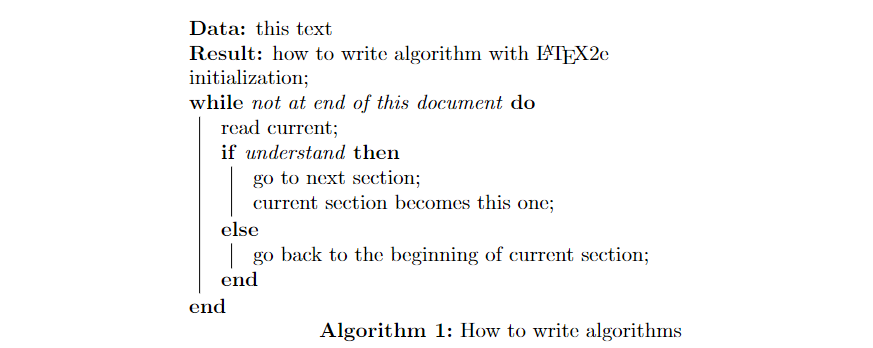
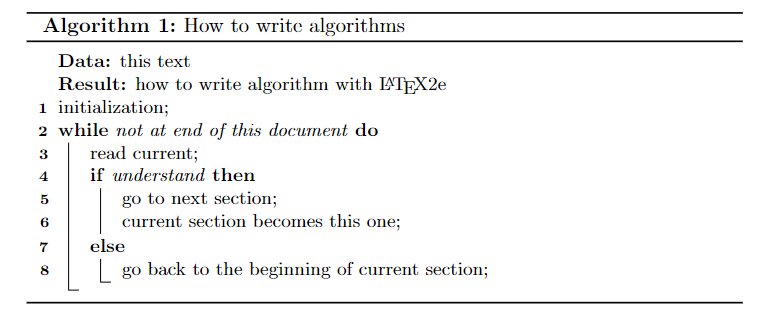
modify theme

diff --git a/source/_posts/博客搭建教程（二）.md b/source/_posts/博客搭建教程（二）.md
@@ -1,0 +1,79 @@
+---
+title: 博客搭建教程（二）
+date: 2022-10-22 20:14:34
+tags: 博客搭建
+top_img: /img/post1/top_img.jpg
+cover: /img/post1/top_img.jpg
+description: 博客写作
+---
+# 博客搭建教程（二）
+
+## 目录结构
+
+**source** 目录用户资源文件，是项目的根文件 / ，所有文章、页面、图片、音视频等资源都放在该目录下，应用该目录下的文件，文件路径从根目录 / 开始。
+
+**scaffolds** 目录存放模版文件，当新建文章时，Hexo会根据scaffold来建立文件。
+
+Hexo 有三种默认布局（模版）：`post`、`page` 和 `draft`。在创建这三种不同类型的文件时，它们将会被保存到不同的路径；自定义的其他布局和 `post` 相同，都将储存到 `source/_posts` 文件夹。
+
+| 布局    | 路径             |
+| :------ | :--------------- |
+| `post`  | `source/_posts`  |
+| `page`  | `source`         |
+| `draft` | `source/_drafts` |
+
+**public** 目录是Hexo框架根据源文件产生的静态网站文件，部署时，需要将 **public** 目录中的所有内容上传到网站。
+
+## 博客写作
+
+执行下列命令来创建一篇新文章或者新的页面：
+
+```bash
+hexo new [layout] <title>
+```
+
+可以在命令中指定文章的布局（layout），默认为 `post`，可以通过修改 `_config.yml` 中的 `default_layout` 参数来指定默认布局。
+
+通常 post 布局就是我们的博文模板，而 page 布局用来定义tags、categories、links、about等页面。
+
+在 _config.butterfly.yml文件中定义菜单栏：
+
+```yaml
+menu:
+  首页: / || fas fa-home
+  目录||fas fa-list:
+    时间轴: /archives/ || fas fa-archive
+    标签: /tags/ || fas fa-tags
+    分类: /categories/ || fas fa-folder-open
+  链接: /link/ || fas fa-link
+  关于: /about/ || fas fa-heart
+```
+
+需要定义相应的 page 页面：
+
+```
+hexo new page tags
+hexo new page categories
+```
+
+接下来修改生成的 index.md 文件中的类型（type）：
+
+```markdown
+---
+title: 标签
+date: 2022-10-22 18:46:11
+type: tags
+---
+```
+
+## 部署
+
+运行下述命令生成网站静态文件：
+
+```bash
+hexo clean    # 清理之前生成的文件
+hexo g        # 生成网站静态文件
+hexo d        # 配置了部署信息则运行该命令，否则手动部署
+hexo s        # 本地测试生成的网站文件
+```
+

diff --git a/source/_posts/LaTeX伪代码.md b/source/_posts/LaTeX伪代码.md
@@ -1,6 +1,6 @@
 ---
 title: LaTeX伪代码
-date: 2022-10-22 16:58:47
+date: 2022-10-23 9:58:47
 tags: LaTeX
 categories: LaTeX
 top_img: /img/post2/top_img.jpg
@@ -200,21 +200,29 @@ algorithm2e 包允许大量自定义排版算法。与 algorithmic 不同，algo
 用法示例：
 
 ```tex
-\begin{algorithm}[H]
- \KwData{this text}
- \KwResult{how to write algorithm with \LaTeX2e }
- initialization\;
- \While{not at end of this document}{
-  read current\;
-  \eIf{understand}{
-   go to next section\;
-   current section becomes this one\;
-   }{
-   go back to the beginning of current section\;
-  }
- }
- \caption{How to write algorithms}
-\end{algorithm}
+\documentclass{article}
+
+\usepackage[ruled, vlined, linesnumbered]{algorithm2e}
+\begin{document}
+\begin{algorithm}[t]
+    \caption{How to write algorithms}
+    \begin{small}
+        \BlankLine
+        \KwData{this text}
+        \KwResult{how to write algorithm with \LaTeX2e }
+        initialization\;
+        \While{not at end of this document}{
+        read current\;
+        \eIf{understand}{
+        go to next section\;
+        current section becomes this one\;
+        }{
+        go back to the beginning of current section\;
+     }
+    }
+    \end{small}       
+\end{algorithm} 
+\end{document}
 ```
 
 结果：

diff --git a/source/_posts/博客搭建教程（一）.md b/source/_posts/博客搭建教程（一）.md
@@ -1,12 +1,12 @@
 ---
-title: 博客搭建教程
+title: 博客搭建教程（一）
 date: 2022-10-22 14:08:15
-tags:
+tags: 博客搭建
 top_img: /img/post1/top_img.jpg
 cover: /img/post1/top_img.jpg
 description: 本教程基于 Hexo 框架 + Butterfly 主题 + GitHub Pages 搭建博客
 ---
-# 博客搭建教程 
+# 博客搭建教程（一） 
 
 本教程基于 Hexo 框架 + Butterfly 主题 + GitHub Pages 搭建博客
 

diff --git a/source/categories/index.md b/source/categories/index.md
@@ -1,6 +1,6 @@
 ---
 title: 分类
 date: 2022-10-22 18:50:03
-type: "categories"
+type: categories
 top_img: /img/categories.jpg
 ---

diff --git a/source/tags/index.md b/source/tags/index.md
@@ -1,6 +1,6 @@
 ---
 title: 标签
 date: 2022-10-22 18:46:11
-type: "tags"
+type: tags
 top_img: /img/tags.jpg
 ---
